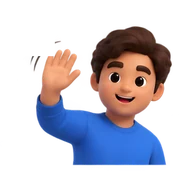
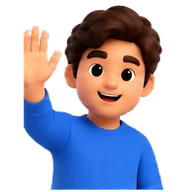
Jim waves with all 20 founder-made frames; sprite script keys out drawn checkerboards, removes number badges and aligns frames; Mel's sheet saved for later
Claude-Session: https://claude.ai/code/session_01RpmJnSPrc6hx8ABvC13Bj4

diff --git a/src/components/Story.tsx b/src/components/Story.tsx
@@ -63,8 +63,9 @@ const SCENES: Scene[] = [
 
 // One person in two poses (hand down, hand up), played as a short flipbook so
 // they actually wave. Give it a new `key` to wave again.
-// People with a hand-made frame-by-frame wave (a strip of frames in play order).
-const SPRITES: Record<string, number> = { jim: 13 };
+// People with a hand-made frame-by-frame wave (a strip of frames in play order,
+// made with scripts/make-wave-strip.py from the sheets in docs/design/avatars/).
+const SPRITES: Record<string, number> = { jim: 20 };
 
 export function Wave({ who, on, loop = false, className = "", label }: { who: string; on: boolean; loop?: boolean; className?: string; label?: string }) {
   const frames = SPRITES[who];
@@ -72,7 +73,7 @@ export function Wave({ who, on, loop = false, className = "", label }: { who: st
     return (
       <span
         className={`face sprite${on ? " is-on" : ""}${loop ? " is-loop" : ""} ${className}`}
-        style={{ backgroundImage: `url(${face(`${who}-wave-strip`)})`, backgroundSize: `${frames * 100}% 100%`, animationTimingFunction: `steps(${frames}, jump-none)` }}
+        style={{ backgroundImage: `url(${face(`${who}-strip`)})`, backgroundSize: `${frames * 100}% 100%`, animationTimingFunction: `steps(${frames}, jump-none)` }}
         role={label ? "img" : undefined}
         aria-label={label}
       />

diff --git a/src/index.css b/src/index.css
@@ -638,7 +638,7 @@ section { padding-block: clamp(5.5rem, 11vw, 9rem); scroll-margin-top: 5rem; }
 
 /* Hand-made wave: a strip of frames played in order, then back to rest. */
 .sprite { display: block; aspect-ratio: 1; background-repeat: no-repeat; background-position: 0 0; }
-.sprite.is-on { animation: sprite 1.3s both; }
+.sprite.is-on { animation: sprite 2s both; }
 .sprite.is-loop { animation-iteration-count: infinite; animation-delay: .3s; }
 @keyframes sprite { from { background-position: 0 0; } to { background-position: 100% 0; } }
 .sv-lines li.sv-ringing { display: flex; align-items: center; gap: .5rem; margin: auto; max-width: none; color: var(--muted); font-size: .9rem; }

diff --git a/scripts/make-wave-strip.py b/scripts/make-wave-strip.py
@@ -1,58 +1,177 @@
 #!/usr/bin/env python3
-"""Turn a founder-made sprite sheet into a wave strip for the site.
+"""Turn a founder-made sprite sheet into an animation strip for the site.
 
 Usage:
-  python3 scripts/make-wave-strip.py SHEET.png NAME --grid 5x4 --order 1,2,3,4,5,4,3,4,5,4,3,2,1
+  python3 scripts/make-wave-strip.py SHEET.png NAME --grid 10x2 [--order all] [--still 1]
 
-SHEET is a transparent PNG laid out in a grid (frame 1 top-left, reading
-across). Each cell's top-left corner is cleared, so frame-number badges go.
-Writes public/avatars/NAME.webp (rest frame), NAME-wave.webp (hand up) and
-NAME-wave-strip.webp (frames in play order, all aligned to one crop). Then add
-NAME to SPRITES in src/components/Story.tsx with the number of frames.
+SHEET is a grid of frames (frame 1 top-left, reading across). It can have real
+transparency, or a light/checkerboard background drawn in, which is keyed out.
+Frame-number badges (small dark circles) are removed. Every frame is cropped to
+one shared box so the character never jumps between frames.
+
+Writes public/avatars/NAME.webp (still), NAME-strip.webp (frames in play order)
+and prints the frame count for STRIPS in src/components/Story.tsx.
 """
 import argparse
+from collections import deque
 from pathlib import Path
 from PIL import Image
 
 p = argparse.ArgumentParser()
 p.add_argument("sheet"); p.add_argument("name")
 p.add_argument("--grid", default="5x4")
-p.add_argument("--order", default="1,2,3,4,5,4,3,4,5,4,3,2,1")
-p.add_argument("--wave", type=int, default=5, help="frame used as the still 'hand up' pose")
+p.add_argument("--order", default="all", help='"all" or e.g. 1,2,3,2,1')
+p.add_argument("--still", default="1", help="frame(s) saved as stills, e.g. 1 or 1:,11:-call")
 p.add_argument("--size", type=int, default=192)
-p.add_argument("--badge", default="88x72", help="top-left area cleared in each cell")
 a = p.parse_args()
 
 cols, rows = map(int, a.grid.split("x"))
-bw, bh = map(int, a.badge.split("x"))
-order = [int(x) for x in a.order.split(",")]
 im = Image.open(a.sheet).convert("RGBA")
-cw, ch = im.width / cols, im.height / rows
+W, H = im.size
+px = im.load()
+
+def neutral_light(c):
+    r, g, b, al = c
+    return al > 0 and max(r, g, b) - min(r, g, b) <= 18 and (r + g + b) / 3 >= 150
+
+# 1. Background drawn into the image: flood-fill light neutral pixels from the edges.
+if im.getextrema()[3][0] == 255:
+    seen = bytearray(W * H)
+    q = deque()
+    for x in range(W):
+        for y in (0, H - 1):
+            q.append((x, y))
+    for y in range(H):
+        for x in (0, W - 1):
+            q.append((x, y))
+    while q:
+        x, y = q.popleft()
+        i = y * W + x
+        if seen[i] or not neutral_light(px[x, y]):
+            continue
+        seen[i] = 1
+        px[x, y] = (0, 0, 0, 0)
+        if x > 0: q.append((x - 1, y))
+        if x < W - 1: q.append((x + 1, y))
+        if y > 0: q.append((x, y - 1))
+        if y < H - 1: q.append((x, y + 1))
+
+    # Pockets of background enclosed by the character (between an arm and the
+    # head, say) aren't reached from the edges. Clear light neutral regions that
+    # carry the two-tone checkerboard; eye whites and teeth are one tone and stay.
+    seen = bytearray(W * H)
+    for y0 in range(H):
+        for x0 in range(W):
+            if seen[y0 * W + x0] or not neutral_light(px[x0, y0]):
+                continue
+            comp, q = [], deque([(x0, y0)]); seen[y0 * W + x0] = 1
+            while q:
+                x, y = q.popleft(); comp.append((x, y))
+                for nx, ny in ((x - 1, y), (x + 1, y), (x, y - 1), (x, y + 1)):
+                    if 0 <= nx < W and 0 <= ny < H and not seen[ny * W + nx] and neutral_light(px[nx, ny]):
+                        seen[ny * W + nx] = 1; q.append((nx, ny))
+            if len(comp) < 40:
+                continue
+            light = sum(1 for c in comp if px[c][0] >= 245) / len(comp)
+            grey = sum(1 for c in comp if 200 <= px[c][0] <= 230) / len(comp)
+            if light > 0.2 and grey > 0.2:
+                for c in comp:
+                    px[c] = (0, 0, 0, 0)
+
+# 2. Remove number badges: small, dark, neutral, filled-circle components.
+seen = bytearray(W * H)
+for y0 in range(H):
+    for x0 in range(W):
+        if seen[y0 * W + x0] or px[x0, y0][3] < 20:
+            continue
+        comp, q = [], deque([(x0, y0)])
+        seen[y0 * W + x0] = 1
+        while q:
+            x, y = q.popleft(); comp.append((x, y))
+            for nx, ny in ((x - 1, y), (x + 1, y), (x, y - 1), (x, y + 1)):
+                if 0 <= nx < W and 0 <= ny < H and not seen[ny * W + nx] and px[nx, ny][3] >= 20:
+                    seen[ny * W + nx] = 1; q.append((nx, ny))
+        if len(comp) > 6000:
+            continue
+        xs = [c[0] for c in comp]; ys = [c[1] for c in comp]
+        bw, bh = max(xs) - min(xs) + 1, max(ys) - min(ys) + 1
+        fill = len(comp) / (bw * bh)
+        dark = sum(1 for c in comp if sum(px[c][:3]) / 3 < 110) / len(comp)
+        if 0.6 < bw / bh < 1.6 and fill > 0.55 and dark > 0.5 and bw > 18:
+            for c in comp:
+                px[c] = (0, 0, 0, 0)
+
+cw = W / cols
+# Rows: split at the emptiest horizontal line near each nominal boundary,
+# because drawn sheets often let one row overhang the next.
+rowsum = [sum(1 for x in range(0, W, 2) if px[x, y][3] >= 20) for y in range(H)]
+cuts = [0]
+for k in range(1, rows):
+    nominal = round(k * H / rows); lo, hi = nominal - round(H / rows / 4), nominal + round(H / rows / 4)
+    cuts.append(min(range(lo, hi), key=lambda y: (rowsum[y], abs(y - nominal))))
+cuts.append(H)
+
+def components(f):
+    fp = f.load(); w, h = f.size; seen = bytearray(w * h); comps = []
+    for y0 in range(h):
+        for x0 in range(w):
+            if seen[y0 * w + x0] or fp[x0, y0][3] < 20:
+                continue
+            comp, q = [], deque([(x0, y0)]); seen[y0 * w + x0] = 1
+            while q:
+                x, y = q.popleft(); comp.append((x, y))
+                for nx, ny in ((x - 1, y), (x + 1, y), (x, y - 1), (x, y + 1)):
+                    if 0 <= nx < w and 0 <= ny < h and not seen[ny * w + nx] and fp[nx, ny][3] >= 20:
+                        seen[ny * w + nx] = 1; q.append((nx, ny))
+            comps.append(comp)
+    return comps
 
 def cell(n):
+    """One frame: the character (largest piece) plus small marks such as motion
+    lines, minus slivers of the neighbouring frames that touch the cell's sides.
+    Returns the image and an anchor: the centre of the shoulders/bottom edge."""
     r, c = divmod(n - 1, cols)
-    f = im.crop((round(c * cw), round(r * ch), round((c + 1) * cw), round((r + 1) * ch)))
-    px = f.load()
-    for y in range(min(bh, f.height)):
-        for x in range(min(bw, f.width)):
-            px[x, y] = (0, 0, 0, 0)
-    return f
+    f = im.crop((round(c * cw), cuts[r], round((c + 1) * cw), cuts[r + 1]))
+    w, h = f.size
+    comps = components(f)
+    main = max(comps, key=len)
+    keep = Image.new("RGBA", f.size, (0, 0, 0, 0)); kp = keep.load(); fp = f.load()
+    for comp in comps:
+        xs = [x for x, _ in comp]; ys = [y for _, y in comp]
+        touches = min(xs) == 0 or max(xs) == w - 1 or min(ys) == 0 or max(ys) == h - 1
+        if comp is main or (len(comp) >= 60 and not touches):
+            for x, y in comp:
+                kp[x, y] = fp[x, y]
+    bottom = max(y for _, y in main)
+    band = [x for x, y in main if y >= bottom - h * 0.12]
+    return keep, (sum(band) / len(band), bottom)
 
-frames = {n: cell(n) for n in set(order) | {a.wave}}
-boxes = [frames[n].getbbox() for n in order]
-l = min(b[0] for b in boxes); t = min(b[1] for b in boxes)
-r = max(b[2] for b in boxes); b_ = max(b[3] for b in boxes)
-side = max(r - l, b_ - t); cx, cy = (l + r) // 2, (t + b_) // 2
-box = (cx - side // 2, cy - side // 2, cx - side // 2 + side, cy - side // 2 + side)
+order = list(range(1, cols * rows + 1)) if a.order == "all" else [int(x) for x in a.order.split(",")]
+stills = []
+for part in a.still.split(","):
+    n, _, suffix = part.partition(":")
+    stills.append((int(n), suffix))
+frames = {n: cell(n) for n in set(order) | {n for n, _ in stills}}
 
+# Line every frame up on its anchor, then use one square box that fits them all.
+ext = [0, 0, 0, 0]  # left, up, right, down from the anchor
+for f, (ax, ay) in frames.values():
+    l, t, r_, b_ = f.getbbox()
+    ext = [max(ext[0], ax - l), max(ext[1], ay - t), max(ext[2], r_ - ax), max(ext[3], b_ - ay)]
+side = int(max(ext[0] + ext[2], ext[1] + ext[3])) + 4
 def square(n):
-    return frames[n].crop(box).resize((a.size, a.size), Image.LANCZOS)
+    f, (ax, ay) = frames[n]
+    canvas = Image.new("RGBA", (side, side), (0, 0, 0, 0))
+    ox = side / 2 - (ext[2] - ext[0]) / 2 - ax  # centre the union box horizontally
+    oy = side - 2 - ext[3] - ay                # anchor sits near the bottom
+    canvas.paste(f, (round(ox), round(oy)), f)
+    return canvas.resize((a.size, a.size), Image.LANCZOS)
 
 out = Path(__file__).resolve().parent.parent / "public" / "avatars"
 strip = Image.new("RGBA", (a.size * len(order), a.size), (0, 0, 0, 0))
 for k, n in enumerate(order):
     strip.paste(square(n), (k * a.size, 0))
-strip.save(out / f"{a.name}-wave-strip.webp", quality=88, method=6)
-square(order[0]).save(out / f"{a.name}.webp", quality=88, method=6)
-square(a.wave).save(out / f"{a.name}-wave.webp", quality=88, method=6)
-print(f"{a.name}: {len(order)} frames -> add {{ {a.name}: {len(order)} }} to SPRITES")
+strip.save(out / f"{a.name}-strip.webp", quality=86, method=6)
+for n, suffix in stills:
+    square(n).save(out / f"{a.name}{suffix}.webp", quality=88, method=6)
+print(f"{a.name}: {len(order)} frames")

diff --git a/CLAUDE.md b/CLAUDE.md
@@ -20,7 +20,7 @@ Pricing (including the AI add-on), delivery time, reply time and terms appear in
 A Vercel function: the start form posts to it, Claude recommends a plan and layout as structured output, and Resend emails the reply to the enquirer and the lead to us. It falls back to the Firebase/EmailJS path if its env vars aren't set. Our USP is that Oceanalt runs on AI agents, checked by people, so keep that claim true: a person reads every enquiry the same business day. The site only promises the 15-minute reply once this function runs on Cloudflare (where the site is hosted) and passes an end-to-end test; until then it promises a same-business-day reply from a person.
 
 ## The homepage story (`src/components/Story.tsx`)
-Hero: "Get found. Get booked. Get paid." with a browser and a phone that rotate through four matched sample businesses (Little Tern Coffee, Kerr & Sons, Saltwater Yoga, Tidewater Physio): each scene shows that business's own sample site (the address bar shows its real path on oceanalt.com.au/work/), the owner's phone, and two wins of one service from that business. Owners wave when a win lands (`Wave`: one Fluent person in a hand-down and a hand-up pose, `<name>.webp` + `<name>-wave.webp`, played as a flipbook). Jim has a founder-made wave instead: a 20-frame sprite sheet (`docs/design/avatars/jim-sheet.png`) turned into `public/avatars/jim-wave-strip.webp` by `python3 scripts/make-wave-strip.py <sheet> <name>` and listed in `SPRITES` in Story.tsx. New characters from the founder go through the same script (front-facing frames only; skip turn-around frames). Then the "We work with" logo row (scrolls left to right), then one sticky scroll story in four steps, each with a small working visual: get found (a site we designed + where it shows up), never miss a call (a natural call between the concierge and Mel: the speaker is highlighted, the next speaker shows typing dots, lines are paced to be read; then the WhatsApp to Jim; the opening line discloses AI and recording, and the concierge never gives electrical advice beyond the triple zero line), get paid (a checkout cycling Apple Pay, Google Pay, Afterpay, card into Stripe), less admin (the pipeline demo). On mobile each visual sits under its step. People are 3D avatars from Microsoft Fluent Emoji (MIT, `public/avatars/LICENSE.txt`): Jim the sparky, Mel the caller, the AI concierge (with an AI badge), customers, and the owners of the sample businesses. No emoji anywhere (founder's call): no mood badges or emoji faces. Expression comes only from the people's own variants (`mel-worried` → `mel-ok`, `jim` → `jim-wave`): Mel is worried until the concierge books her, Jim waves when a win lands. The pay step plays a real-looking sheet per method (Face ID for Apple Pay, card tap for Google Pay, four dots for Afterpay, typed card) ending in a drawn tick. The work gallery shows each sample business as a case study: owner, before, what the site does (sample, no results claimed). Sample businesses only, and the page says so. Keep the page uncluttered: one idea per screen, logos instead of chips, motion that tells the story and stops for reduced motion.
+Hero: "Get found. Get booked. Get paid." with a browser and a phone that rotate through four matched sample businesses (Little Tern Coffee, Kerr & Sons, Saltwater Yoga, Tidewater Physio): each scene shows that business's own sample site (the address bar shows its real path on oceanalt.com.au/work/), the owner's phone, and two wins of one service from that business. Owners wave when a win lands (`Wave`: one Fluent person in a hand-down and a hand-up pose, `<name>.webp` + `<name>-wave.webp`, played as a flipbook). Jim has a founder-made wave instead: all 20 frames of `docs/design/avatars/jim-sheet.png`, turned into `public/avatars/jim-strip.webp` by `python3 scripts/make-wave-strip.py docs/design/avatars/jim-sheet.png jim --grid 10x2 --still 1,5:-wave` and listed in `SPRITES` in Story.tsx. The script keys out drawn-in checkerboard backgrounds, removes the number badges and aligns every frame. New characters from the founder go through the same script. `mel-sheet.png` is saved for Mel; she isn't animated yet (founder's call). Then the "We work with" logo row (scrolls left to right), then one sticky scroll story in four steps, each with a small working visual: get found (a site we designed + where it shows up), never miss a call (a natural call between the concierge and Mel: the speaker is highlighted, the next speaker shows typing dots, lines are paced to be read; then the WhatsApp to Jim; the opening line discloses AI and recording, and the concierge never gives electrical advice beyond the triple zero line), get paid (a checkout cycling Apple Pay, Google Pay, Afterpay, card into Stripe), less admin (the pipeline demo). On mobile each visual sits under its step. People are 3D avatars from Microsoft Fluent Emoji (MIT, `public/avatars/LICENSE.txt`): Jim the sparky, Mel the caller, the AI concierge (with an AI badge), customers, and the owners of the sample businesses. No emoji anywhere (founder's call): no mood badges or emoji faces. Expression comes only from the people's own variants (`mel-worried` → `mel-ok`, `jim` → `jim-wave`): Mel is worried until the concierge books her, Jim waves when a win lands. The pay step plays a real-looking sheet per method (Face ID for Apple Pay, card tap for Google Pay, four dots for Afterpay, typed card) ending in a drawn tick. The work gallery shows each sample business as a case study: owner, before, what the site does (sample, no results claimed). Sample businesses only, and the page says so. Keep the page uncluttered: one idea per screen, logos instead of chips, motion that tells the story and stops for reduced motion.
 
 `api/demo.ts` and `shared/aiDemo.ts` (live Claude chat demo) are kept for a future website-chat demo but aren't on the homepage now.
 
